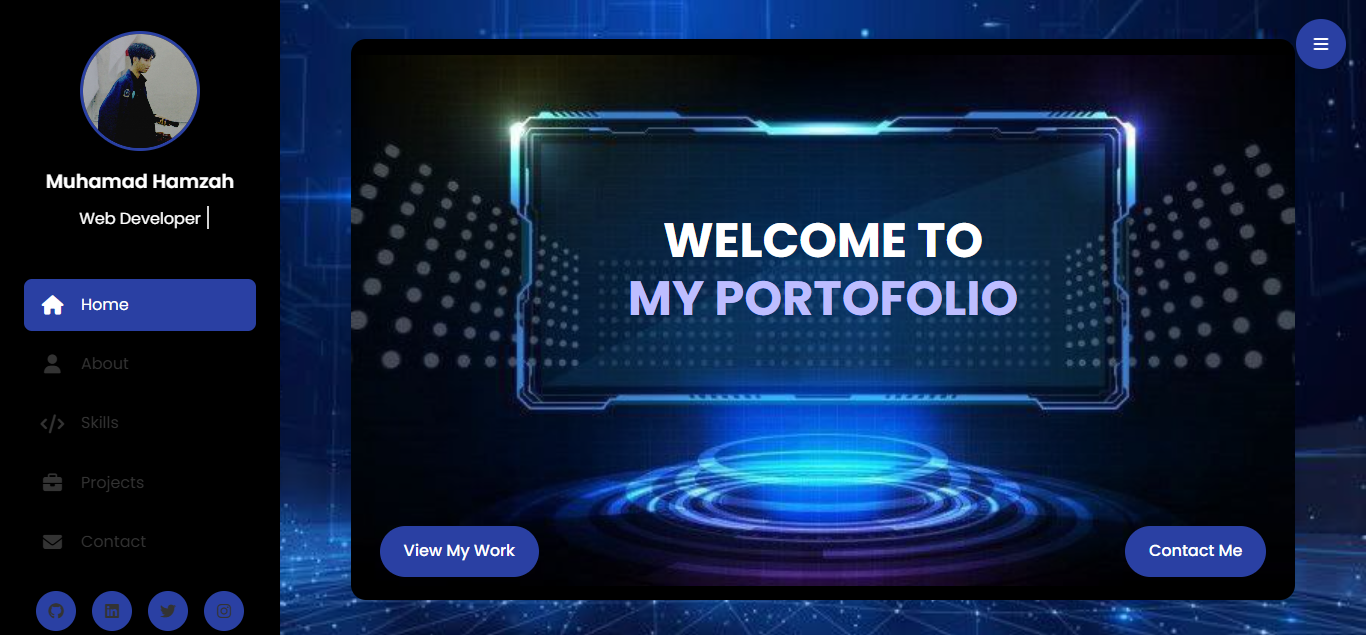
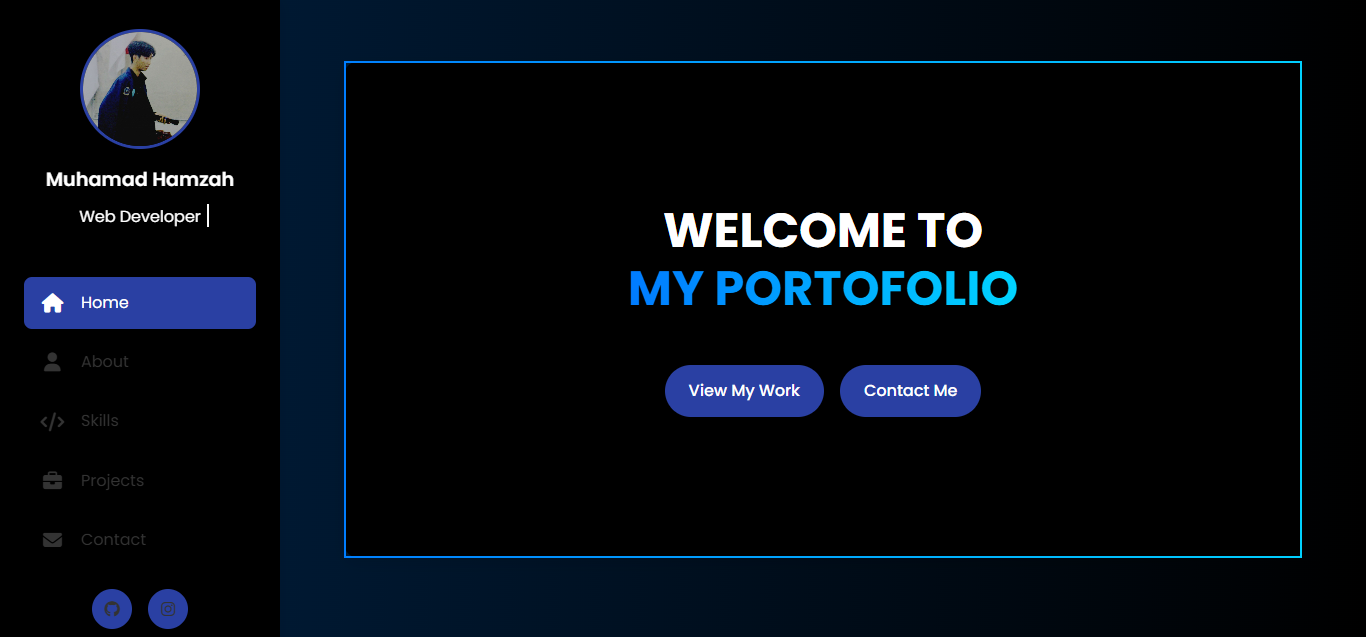
perubahan lagi

diff --git a/app/src/styles.css b/app/src/styles.css
@@ -41,9 +41,7 @@
 body {
   font-family: "Poppins", sans-serif;
   color: var(--text-color);
-  background-image: url(../img/bg.jpeg);
-  background-repeat: no-repeat;
-  background-size: 100%;
+  background: linear-gradient(to right, #001f3f, #000000);
   line-height: 1.6;
   overflow-x: hidden;
 }
@@ -279,7 +277,6 @@ img {
   border-radius: 50%;
   background-color: var(--primary-color);
   color: white;
-  display: flex;
   align-items: center;
   justify-content: center;
   cursor: pointer;
@@ -339,14 +336,13 @@ img {
   display: flex;
   flex-direction: column;
   justify-content: center;
-  min-height: calc(100vh - 5rem);
-  width: 59rem;
+  min-height: calc(90vh - 5rem);
   text-align: center;
-  background-image: url(/app/img/bg_style.jpg);
-  background-repeat: no-repeat;
-  background-size: 59rem;
-  background-position-y: 1rem;
-  transform: translateY(0.5rem);
+  background-color: black;
+  margin: 2rem;
+  border: 2px solid transparent;
+  border-image: linear-gradient(to right, #007bff, #00d4ff);
+  border-image-slice: 55;
 }
 
 .welcome {
@@ -358,7 +354,9 @@ img {
 }
 
 .welcome .style {
-  color: rgb(189, 189, 255);
+  background: linear-gradient(to right, #007bff, #00d4ff);
+  -webkit-background-clip: text;
+  -webkit-text-fill-color: transparent;
 }
 
 .headline {
@@ -385,7 +383,6 @@ img {
   justify-content: center;
   gap: 1rem;
   margin-top: 2rem;
-  translate: 0px 150px;
 }
 
 .btn {
@@ -401,21 +398,23 @@ img {
 .btn.lihat {
   background-color: var(--primary-color);
   color: white;
-  transform: translateX(-285px);
 }
 
 .btn.kontak {
   background-color: var(--primary-color);
   color: white;
-  transform: translateX(285px);
 }
 
 .btn.lihat:hover {
-  background-color: var(--secondary-color);
+  background-color: transparent;
+  border: 2px solid var(--primary-color);
+  border-radius: 30%;
 }
 
 .btn.kontak:hover {
-  background-color: var(--secondary-color);
+  background-color: transparent;
+  border: 2px solid var(--primary-color);
+  border-radius: 30%;
 }
 
 .btn.small {
@@ -756,6 +755,10 @@ img {
     height: 60px;
   }
 
+  .mobile-nav-toggle {
+    display: flex;
+  }
+
   .name,
   .title {
     display: none;
@@ -773,11 +776,39 @@ img {
   .content {
     margin-left: var(--sidebar-collapsed-width);
   }
+
+  .sidebar {
+    transform: translateX(-100%);
+  }
+
+  .sidebar.active {
+    transform: translateX(0);
+    width: 250px;
+  }
+
+  .sidebar.active .name,
+  .sidebar.active .title,
+  .sidebar.active .nav-links li a span {
+    display: block;
+  }
+
+  .sidebar.active .profile-pic {
+    width: 100px;
+    height: 100px;
+  }
+
+  .sidebar.active .social-links {
+    flex-direction: row;
+  }
 }
 
 @media (max-width: 768px) {
   :root {
     --sidebar-width: 0;
+  }
+
+  .mobile-nav-toggle {
+    display: flex;
   }
 
   .sidebar {

diff --git a/app/index.html b/app/index.html
@@ -47,7 +47,7 @@
         </ul>
 
         <div class="social-links">
-          <a href="#" target="_blank"><i class="fab fa-github"></i></a>
+          <a href="https://github.com/MuhamadHamzah" target="_blank"><i class="fab fa-github"></i></a>
           <a
             href="https://www.instagram.com/mhmdhmzza?igsh=bWx4aHVtcHRhanhu"
             target="_blank"
@@ -73,7 +73,7 @@
                 <br />
                 <span class="style"> MY PORTOFOLIO </span>
               </h1>
-              <div class="cta-buttons">
+              <div class="cta-buttons"> 
                 <a href="#projects" class="btn lihat">View My Work</a>
                 <a href="#contact" class="btn kontak">Contact Me</a>
               </div>
@@ -333,12 +333,12 @@
 
                 <div class="project-item" data-category="other">
                   <div class="project-img">
-                    <img src="/app/img/sertif_c++.png" alt="Certificate" />
-                  </div>
-                  <div class="project-info">
                     <a
                       href="https://drive.google.com/file/d/1lwpqLjGkKDcDpJaNqzyVkxfct7Aj6g_O/view?usp=drivesdk"
                     >
+                    <img src="/app/img/sertif_c++.png" alt="Certificate" />
+                  </div>
+                  <div class="project-info">
                       <h3>Certificate - Memulai Pemrograman Dengan C</h3>
                       <p>
                         The "Starting Programming With C" certificate I got at
